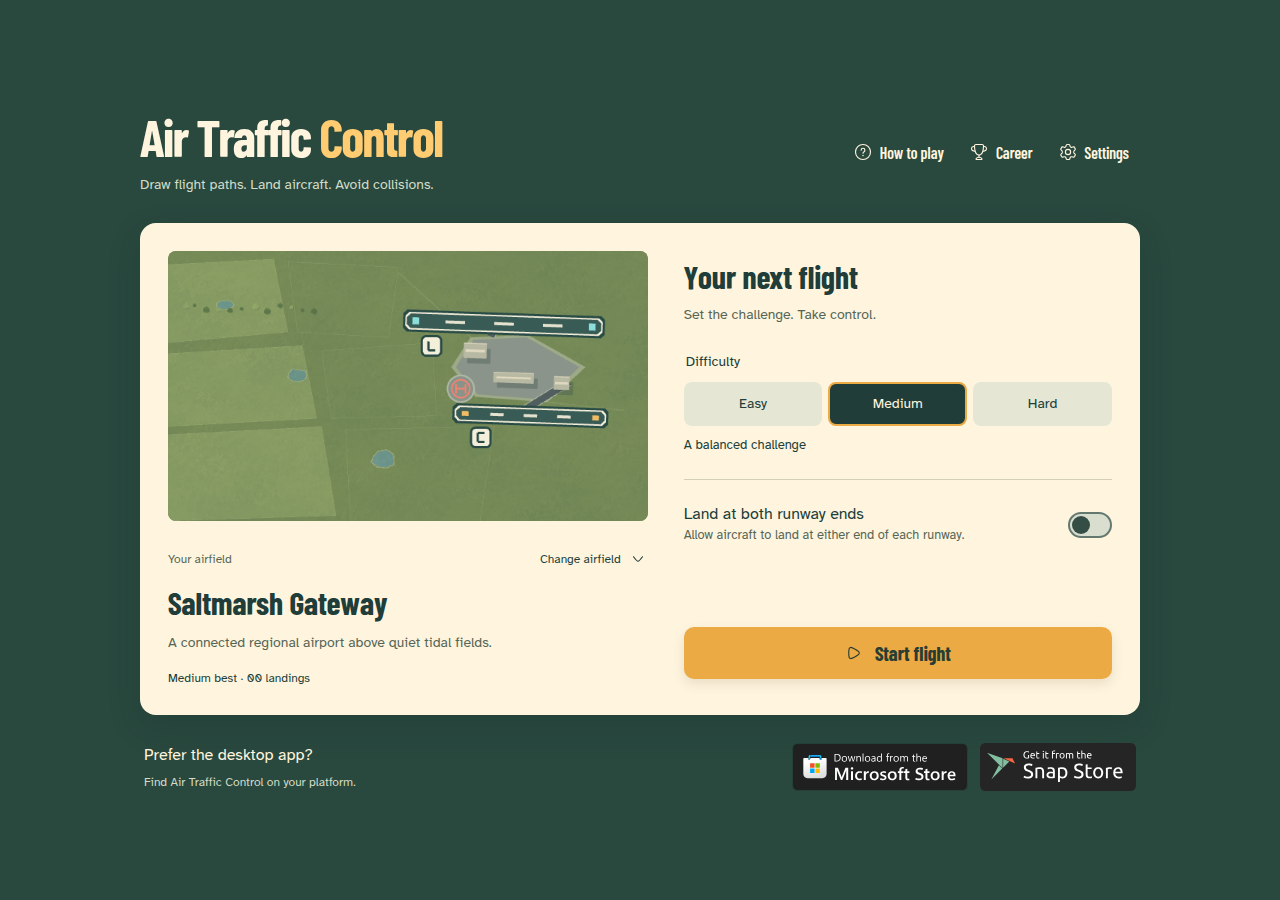
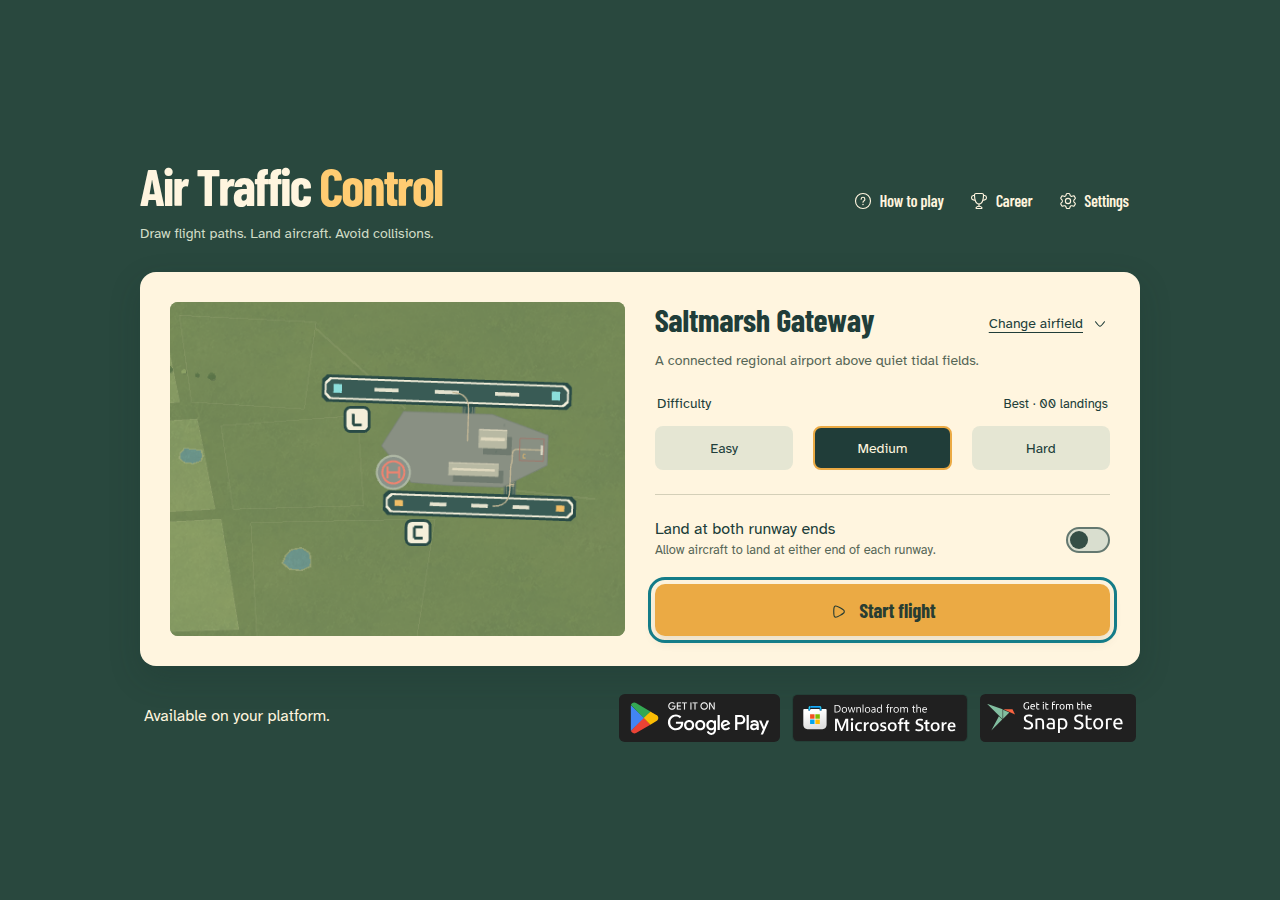
feat: promote Google Play alongside desktop stores

diff --git a/src/styles.css b/src/styles.css
@@ -1357,7 +1357,7 @@ body[data-screen="home"] .departure-board { margin-bottom: 0; }
 #start-panel .runway-option { padding-top: 24px; border-top: 1px solid var(--line); margin: 0; gap: 12px; }
 #start-panel .runway-option small { color: var(--muted); }
 #start-panel #start-button { margin: 0; min-height: 52px; }
-#start-panel .home-stores { display: flex; align-items: center; justify-content: space-between; gap: 20px; padding: 0 4px; }
+#start-panel .home-stores { display: flex; align-items: center; justify-content: space-between; flex-wrap: wrap; gap: 20px; padding: 0 4px; }
 #start-panel .home-stores p { margin: 0 0 4px; font-size: 16px; color: var(--paper); }
 #start-panel .store-links { display: flex; align-items: center; gap: 12px; flex-wrap: wrap; }
 #start-panel .store-links a { display: inline-flex; align-items: center; border-radius: 4px; scroll-margin-block: 24px; }
@@ -1437,7 +1437,7 @@ body[data-screen="home"] .departure-board { margin-bottom: 0; }
   #start-panel #start-button { width: min(100%, 240px); align-self: flex-end; min-height: 44px; padding-block: 8px; }
   #start-panel .home-stores { flex-direction: row; gap: 12px; padding: 0; text-align: left; }
   #start-panel .home-stores p { margin: 0; font-size: 13px; }
-  #start-panel .store-links { width: auto; flex-wrap: nowrap; gap: 10px; }
+  #start-panel .store-links { width: auto; flex-wrap: wrap; gap: 10px; }
   #start-panel .store-links a { min-height: 44px; }
   #start-panel .store-links img { height: 36px; }
 }

diff --git a/index.html b/index.html
@@ -229,9 +229,10 @@
               </section>
             </section>
 
-            <nav class="home-stores" aria-label="Get the desktop app">
+            <nav class="home-stores" aria-label="Get the app">
               <div class="store-intro"><p>Available on your platform.</p></div>
               <div class="store-links">
+                <a href="https://play.google.com/store/apps/details?id=dev.montasim.airtrafficcontrol" target="_blank" rel="noopener noreferrer" aria-label="Google Play for Android (opens in a new tab)"><img src="/assets/stores/google-play.svg" width="239" height="71" alt="Get it on Google Play for Android" /></a>
                 <a href="https://apps.microsoft.com/detail/9N5536ZQ2XZM" target="_blank" rel="noopener noreferrer" aria-label="Microsoft Store for Windows (opens in a new tab)"><img src="/assets/stores/microsoft-store.svg" width="161" height="44" alt="Get it from Microsoft Store for Windows" /></a>
                 <a href="https://snapcraft.io/air-traffic-control" target="_blank" rel="noopener noreferrer" aria-label="Snap Store for Linux (opens in a new tab)"><img src="/assets/stores/snap-store.svg" width="182" height="56" alt="Get it from the Snap Store for Linux" /></a>
               </div>

diff --git a/README.md b/README.md
@@ -10,14 +10,15 @@ Air Traffic Control is a browser arcade game for short, increasingly busy air-tr
 
 **[Play in your browser](https://airtrafficcontrol.netlify.app/) · [How to play](#how-to-play) · [Run locally](#run-locally) · [Report a bug](https://github.com/montasim/air-traffic-control/issues)**
 
-### Get the desktop app
+### Get the app
 
+<a href="https://play.google.com/store/apps/details?id=dev.montasim.airtrafficcontrol"><img src="public/assets/stores/google-play.svg" alt="Get Air Traffic Control on Google Play for Android" height="48" /></a>
 <a href="https://apps.microsoft.com/detail/9N5536ZQ2XZM"><img src="public/assets/stores/microsoft-store.svg" alt="Download Air Traffic Control from the Microsoft Store for Windows" height="48" /></a>
 <a href="https://snapcraft.io/air-traffic-control"><img src="public/assets/stores/snap-store.svg" alt="Get Air Traffic Control from the Snap Store for Linux" height="48" /></a>
 
-Windows: [Microsoft Store](https://apps.microsoft.com/detail/9N5536ZQ2XZM). Linux: [Snap Store](https://snapcraft.io/air-traffic-control). Check each listing for device requirements and the available release. Store versions and the live site may differ from the latest source.
+Android: [Google Play](https://play.google.com/store/apps/details?id=dev.montasim.airtrafficcontrol). Windows: [Microsoft Store](https://apps.microsoft.com/detail/9N5536ZQ2XZM). Linux: [Snap Store](https://snapcraft.io/air-traffic-control). Check each listing for device requirements and the available release. Store versions and the live site may differ from the latest source.
 
-[![Air Traffic Control start screen with airfield selection, difficulty controls, and desktop store links](docs/images/start-screen.png)](https://airtrafficcontrol.netlify.app/)
+[![Air Traffic Control start screen with airfield selection, difficulty controls, and app store links](docs/images/start-screen.png)](https://airtrafficcontrol.netlify.app/)
 
 *Start screen captured from the current local source. The published app may show an earlier version.*
 
@@ -94,6 +95,16 @@ Open the local URL printed by Vite, normally [http://localhost:5173](http://loca
 | `npm run build` | Type-check and build production assets into `dist/` |
 | `npm run preview` | Serve the production build locally |
 
+## Android (Google Play)
+
+Install [Air Traffic Control from Google Play](https://play.google.com/store/apps/details?id=dev.montasim.airtrafficcontrol).
+
+The Android app wraps the same build in Capacitor (`android/`). Run
+`npm run android:sync` to build and copy the game into the Android project,
+`npm run android:open` to open it in Android Studio, and `npm run package:android`
+for a signed Play bundle. Gradle needs JDK 21. See [Android release](docs/android-release.md)
+for signing, icons, verification, and Play Console setup.
+
 ## Linux desktop
 
 The Electron version bundles the game for offline play on Linux x86-64, with separate
@@ -122,14 +133,6 @@ Build the Windows x64 MSIX for **Sky Routes: Air Traffic Control** with
 `npm run package:msix`; the registered Partner Center identity is configured.
 See [Microsoft Store release](docs/microsoft-store.md)
 for the exact commands, local test packaging, and submission checklist.
-
-## Android (Google Play)
-
-The Android app wraps the same build in Capacitor (`android/`). Run
-`npm run android:sync` to build and copy the game into the Android project,
-`npm run android:open` to open it in Android Studio, and `npm run package:android`
-for a signed Play bundle. Gradle needs JDK 21. See [Android release](docs/android-release.md)
-for signing, icons, verification, and Play Console setup.
 
 ## Saves, sound, and offline use
 

diff --git a/public/assets/stores/README.md b/public/assets/stores/README.md
@@ -1,8 +1,9 @@
 # Store badges
 
-Official English badge artwork, retrieved 2026-10-02:
+Official English badge artwork (Microsoft and Snap retrieved 2026-10-02; Google Play retrieved 2026-10-22):
 
+- `google-play.svg`: https://partnermarketinghub.withgoogle.com/brands/google-play/google-play/lockups-icons-badges/?folder=86718 — Google’s `GetItOnGooglePlay_Badge_Web_color_English.svg`. Google Play and the Google Play logo are trademarks of Google LLC.
 - `microsoft-store.svg`: https://get.microsoft.com/images/en-us%20dark.svg — official static badge documented at https://github.com/microsoft/app-store-badge
 - `snap-store.svg`: https://snapcraft.io/static/images/badges/en/snap-store-black.svg — Canonical's badge, documented at https://snapcraft.io/about/publicise. Snapcraft logo © Canonical Limited; CC BY-ND 2.0 UK, https://github.com/canonical/snap-store-badges/blob/master/LICENSE.md.
 
-The Snap badge’s outer border was removed and its background corner radius matched proportionally to the Microsoft badge at the project owner’s request. The badges retain their original proportions and link to this game's store listings. They are bundled locally so the artwork remains available offline; visiting a store requires a connection.
+The Google Play badge’s outer border was removed at the project owner’s request. The Snap badge’s outer border was removed and its background corner radius matched proportionally to the Microsoft badge at the project owner’s request. The Google Play and Snap backgrounds use the Microsoft badge’s `#202020` background color at the project owner’s request. The badges retain their original proportions and link to this game's store listings. They are bundled locally so the artwork remains available offline; visiting a store requires a connection.

diff --git a/DESIGN.md b/DESIGN.md
@@ -199,7 +199,7 @@ Aircraft use a bundled original transparent sprite atlas: cream-and-cyan swept j
 
 The start screen uses a centered, scrollable green surface with a maximum 1080px content width. A compact header pairs the title and description with labeled How to play, Career, and Settings controls. One cream board places the actual selected-airfield preview, name, description, record, and Change airfield control on the left; difficulty, the optional two-end runway rule, and the amber Start flight action sit on the right. Existing selection, unlocking, and persistence behavior remains authoritative.
 
-At 700px and below, the board stacks in source order and the preview becomes compact. The panel scrolls on short screens without shrinking controls. The secondary footer links to Windows and Linux listings using locally bundled Microsoft Store and Snap Store badges at their original proportions. The requested Snap treatment removes its border and matches the Microsoft badge’s corner radius. Store links retain visible keyboard focus and open externally.
+At 700px and below, the board stacks in source order and the preview becomes compact. The panel scrolls on short screens without shrinking controls. The secondary footer links to Android, Windows, and Linux listings, in that order, using locally bundled Google Play, Microsoft Store, and Snap Store badges at their original proportions. The requested Snap treatment removes its border and matches the Microsoft badge’s corner radius. Store links retain visible keyboard focus and open externally.
 
 ### Buttons and Navigation
 

diff --git a/docs/android-release.md b/docs/android-release.md
@@ -1,5 +1,7 @@
 # Android release (Google Play)
 
+Published as [Air Traffic Control on Google Play](https://play.google.com/store/apps/details?id=dev.montasim.airtrafficcontrol).
+
 The Android edition wraps the same Vite build as the web and desktop editions
 in Capacitor. It plays offline from first launch and keeps progress in the
 app's own IndexedDB; browser and desktop saves are separate. Updates come from
